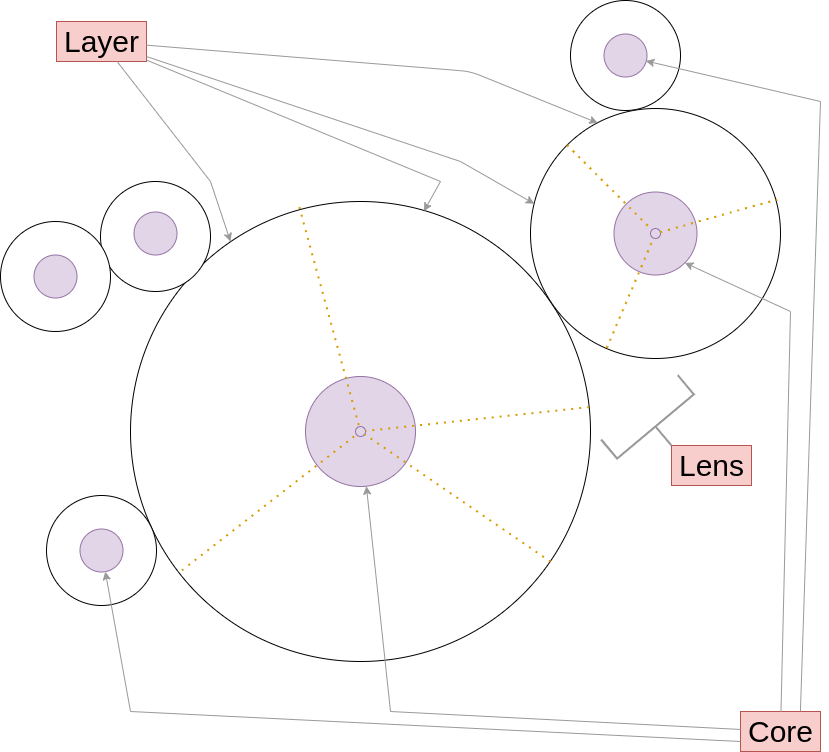
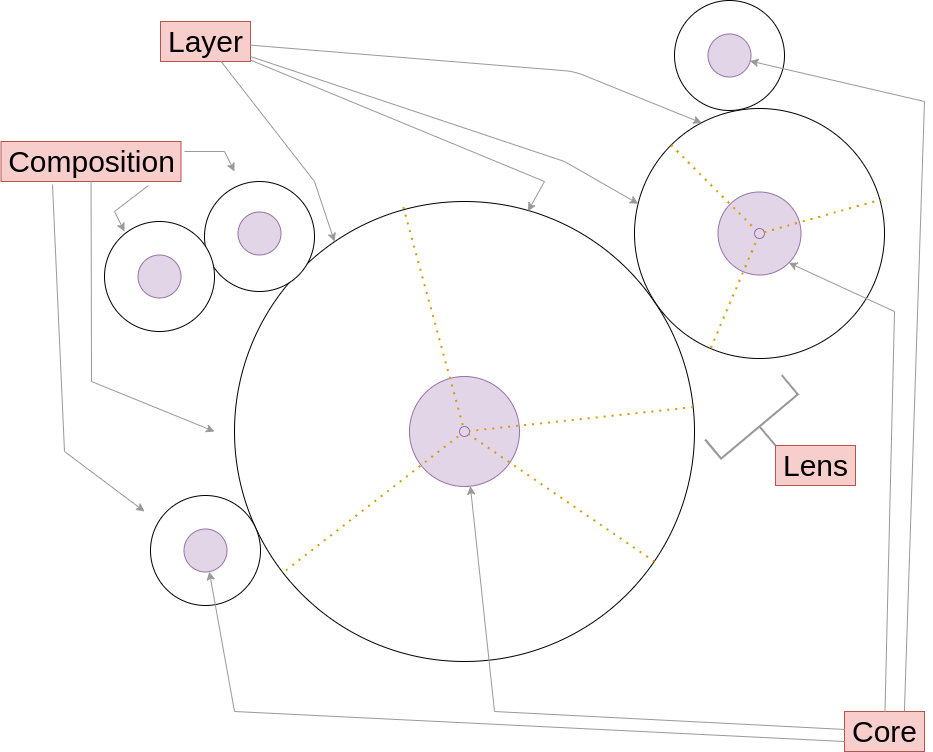
docs: features

diff --git a/src/constructor/createConstructor.js b/src/constructor/createConstructor.js
@@ -110,6 +110,7 @@ const _constructor = ({at}) => {
 
             const composition = await this[$getComposition]({})
 
+            // dependency injection
             if (coreObject?.[$isCompositionInstance]) {
                 const $ = findDependency(coreObject, composition, { location })
 

diff --git a/README.md b/README.md
@@ -55,62 +55,134 @@ mutable inner state (known as `core`). Reactivity is built into `Compositions` e
 *layerCompose* shines when implementing [Model-Controller](https://en.wikipedia.org/wiki/Model–view–controller) 
 business logic of an application, especially when there are shifting and unpredictable requirements. 
 *layerCompose* is in-between a language and a framework: while it is pure JavaScript it does have predefined naming conventions giving it a feel 
-of a *sub*set of JavaScript. The end result is full expressiveness of JS for implementing logic within predictable architecture.  
+of a *sub*set of JavaScript. 
+
+The end result is full expressiveness of JS for implementing logic and control flows within a Composition, 
+with [declarative](https://en.wikipedia.org/wiki/Declarative_programming) style when outlining the execution of the entire application.  
 
 ## layerCompose
 
+![diagram1](docs/layer-compose.png)
+
 In a nutshell, *layerCompose* assembles numerous functions in the form:
 ```javascript
-    function fn ($ /* "super", like js `this` */, _ /* "core": like React props (but writable) */, opt /* additional named options */) {}
+    function fn (
+        $ /* "super" akin to `this` */, 
+        _ /* "core": mutable state */, 
+        o /* named arguments */) {}
 ```
 in nested configurations
 ```javascript
 /* Referred to as Composition */
-const Apple  = layerCompose(
-        // top layer
-    {
-        generateConfig($,_) { console.log(_.name + " top is generating") },
+const Apple = lc()
 
-        /* this is a lens */        
-        Remote: [
-            {
-                send($,_,opt) { /* eg. if (opt.optKey === 1) ... */ }
-            },
-            {
-                receive($,_,opt) {}
-            }
-        ]
+/* a `layer` */
+Apple._sweetness /* _type is a `layer` name tag for improved visualization */ = {
+    /* constructor function */
+    $($,_) {
+        defaults(_, {sweetnessLevel: 0.1})
     },
-        
-    // bottom layer
-    {
-        generateConfig($,_) { console.log(_.name + " bottom is generating") },
-    }    
-)
-```
-into a _Composition_ that can be instantiated
-```javascript
-    const a = Apple({name: 'honey-crisp'})
-    a.generateConfig() 
-    // prints:
-    // "honey-crisp bottom is generating"
-    // "honey-crisp top is generating"
+  
+    grow($,_,o) {
+        if (o.sunshineLevel > 0.5) {
+            _.sweetnessLevel += 0.3        
+        }
+    }
+}
+
+/* another `layer` */
+Apple._offspring = {
+    $($,_) {
+        defaults(_, {canHaveOffspring: false}) // `core` cannot contain `undefined` values,
+    },
+  
+    // notice that the `layer` above has a function with the same name
+    // both will be executed when calling `apple.grow()` (read more about execution order in the "Deep Dive" section)
+    grow($,_,o) {
+      _.maximumSeedCount = o.sunshineLevel * _.sweetnessLevel * 20
+    },
+  
+    /* 
+    `accessor` -- the only way to expose `core` values to the outside 
+    note the notation: must start with `_` followed by a capital letter
+     */
+    _MaximumSeedCount: (_) => _.maximumSeedCount,
     
-    a.Remote(r => r.send({optKey: optVal}))
-    a.Remote(r => r.receive())
+    /* Defining a `Lens` */
+    Seeds: {
+        _($,_,o) {
+            _.thresholdModifier = o.isColdWinter ? 0.5 : 1 // if the winter is cold, less seeds will sprout 
+        },
+        $($,_) {
+            defaults(_, {seeds: []})
+            $.setSeedCount()
+            $.generateSeeds()
+        },
+      
+        setSeedCount($,_,o) {
+            if (o.seedCount) {
+                _.seedCount = Math.round(o.seedCount * _.thresholdModifier)
+            } else {
+              // dependency injection: looking up the context chain (parental chain) to find the first Apple type Composition
+              // `return` forces the `Seeds` Composition to suspend until the dependency injection is complete
+
+              return Apple($, parentApple => {
+                _.seedCount = Math.round(parentApple._MaximumSeedCount * _.thresholdModifier)
+              })    
+            }
+        },
+      
+        * generateSeeds($,_) {
+            for (let i = 0; i < _.seedCount; i++) {
+              // suspending `Seeds` composition instance until all the seeds are instantiated  
+              yield $.Seed({birthOrder: i}, seed => {
+                  _.seeds.push(seed)
+              })   
+            }
+        },
+      
+        sprout($,_) {
+            // suspends `Seeds` composition until all seeds sprout
+            return _.seeds.map(s => s.sprout())  
+        },
+        
+        /* Defining another `Lens` */
+      
+        Seed: {
+            $($, _) {
+              setTimeout($.sprout, _.birthOrder * 1000)
+            },
+            sprout($,_) { /* ... */ }
+        }
+    }
+}
+
+```
+
+into a _Composition_ that can be instantiated using a [declarative](https://en.wikipedia.org/wiki/Declarative_programming) approach
+
+```javascript
+    Apple({sweetnessLevel: 0.2 /* override the default */}, 
+        apple => { // callback after the constructor completes
+            apple.grow({sunshineLevel: 0.8})
+          
+            apple.Seeds({}, seeds => { // callback runs after the Lens constructor completes
+                seeds.sprout() // calls upon each `Seed` to `sprout()`
+            })
+    })
 ```
 
 ## Features
-- Simple and powerful ***Dependency Injection***
-- Generated Composition ***relationship diagrams***, visualizing program execution
+- ***Borrow checks***: ensuring that only a single layer has write access to specific key-value pair 
+- Simple and powerful ***Dependency Injection*** 
+- ***Execution thread per composition*** ensuring sequential execution even for async functions
+- Generated composition ***relationship diagrams***, visualizing program execution  
   ![architecture-visualized](docs/example-architecture-visualized.png)
 - ***Auto type*** -- automatic typing for functions and interfaces (works well to be useful, will be improved with demand).
-  Generates [flow.js](https://flow.org) types without a single manual input.
+  Generates [flow.js](https://flow.org) types without a single manual input.  
   ![auto-type](docs/auto-type.png)
 
 ## Deep dive
-
-![diagram1](docs/layer-compose.png)
 
 ![diagram-accessors](docs/layer-compose-accessors.png)
 
